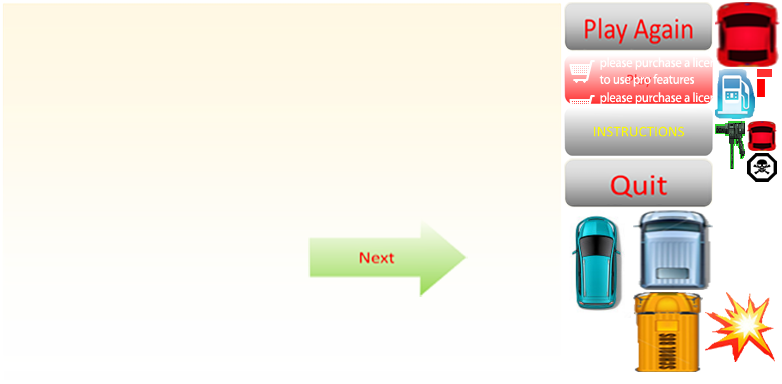
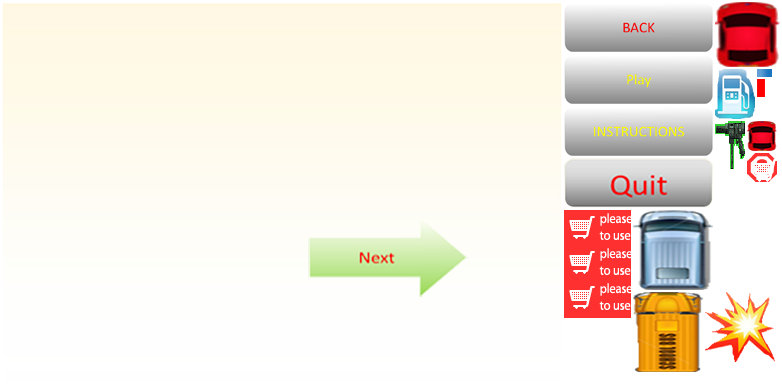
final touch

diff --git a/COMP397-Lesson4SideScroller/Scripts/states/instruction.js b/COMP397-Lesson4SideScroller/Scripts/states/instruction.js
@@ -16,9 +16,17 @@ var states;
         instruction.prototype.start = function () {
             this.INSTRUCTIONImage = new createjs.Bitmap(assets.getResult("instruction"));
             this.addChild(this.INSTRUCTIONImage);
-            this._helloLabel = new objects.Label("Speed Racer", "50px" + config.FONT_FAMILY, config.FONT_COLOR, 320, 248, true);
+            this._helloLabel = new objects.Label("move your keyboard keys ", "20px Consolas", "#000000", 320, 248, true);
             this.addChild(this._helloLabel); // add label to the stage
-            this._helloLabel = new objects.Label("Speed Racer2", "50px" + config.FONT_FAMILY, config.FONT_COLOR, 320, 148, true);
+            this._helloLabel = new objects.Label("to move car right, left, up and down", "20px Consolas", "#000000", 320, 268, true);
+            this.addChild(this._helloLabel); // add label to the stage
+            this._helloLabel = new objects.Label(" Press RIGHT key to move right", "30px Consolas", "#000000", 320, 148, true);
+            this.addChild(this._helloLabel); // add label to the stage
+            this._helloLabel = new objects.Label(" Press LEFT key to move left", "30px Consolas", "#000000", 320, 118, true);
+            this.addChild(this._helloLabel); // add label to the stage
+            this._helloLabel = new objects.Label(" Press UP key to move up", "30px Consolas", "#000000", 320, 88, true);
+            this.addChild(this._helloLabel); // add label to the stage
+            this._helloLabel = new objects.Label(" Press DOWN key to move down", "30px Consolas", "#000000", 320, 68, true);
             this.addChild(this._helloLabel); // add label to the stage
             // start button*/
             this._BACKButton = new objects.Button("BackButton", 420, 440);

diff --git a/COMP397-Lesson4SideScroller/Scripts/states/instruction.ts b/COMP397-Lesson4SideScroller/Scripts/states/instruction.ts
@@ -19,11 +19,18 @@
             this.addChild(this.INSTRUCTIONImage);
 
             
-            this._helloLabel = new objects.Label("Speed Racer", "50px" + config.FONT_FAMILY, config.FONT_COLOR, 320, 248, true);
+            this._helloLabel = new objects.Label("move your keyboard keys ", "20px Consolas", "#000000", 320, 248, true);
             this.addChild(this._helloLabel); // add label to the stage
-            this._helloLabel = new objects.Label("Speed Racer2", "50px" + config.FONT_FAMILY, config.FONT_COLOR, 320, 148, true);
+            this._helloLabel = new objects.Label("to move car right, left, up and down", "20px Consolas", "#000000", 320, 268, true);
             this.addChild(this._helloLabel); // add label to the stage
-            
+            this._helloLabel = new objects.Label(" Press RIGHT key to move right", "30px Consolas", "#000000", 320, 148, true);
+            this.addChild(this._helloLabel); // add label to the stage
+            this._helloLabel = new objects.Label(" Press LEFT key to move left", "30px Consolas", "#000000", 320, 118, true);
+            this.addChild(this._helloLabel); // add label to the stage
+            this._helloLabel = new objects.Label(" Press UP key to move up", "30px Consolas", "#000000", 320, 88, true);
+            this.addChild(this._helloLabel); // add label to the stage
+            this._helloLabel = new objects.Label(" Press DOWN key to move down", "30px Consolas", "#000000", 320, 68, true);
+            this.addChild(this._helloLabel); // add label to the stage
             // start button*/
             this._BACKButton = new objects.Button("BackButton", 420, 440);
             //     this._startButton = new createjs.Bitmap("START");

diff --git a/COMP397-Lesson4SideScroller/Scripts/states/over.js b/COMP397-Lesson4SideScroller/Scripts/states/over.js
@@ -18,14 +18,14 @@ var states;
             this.addChild(this.endingScreen);
             // level label
             if (state === 3 && winning) {
-                this._levelLabel = new objects.Label("You Won", "60px" + config.FONT_FAMILY, config.FONT_COLOR, 320, 240, true);
+                this._levelLabel = new objects.Label("You Won", "50px Consolas", "#000000", 320, 140, true);
                 this.addChild(this._levelLabel);
             }
             else {
-                this._levelLabel = new objects.Label("Game Over", "60px" + config.FONT_FAMILY, config.FONT_COLOR, 320, 240, true);
+                this._levelLabel = new objects.Label("Game Over", "50px Consolas", "#000000", 320, 140, true);
                 this.addChild(this._levelLabel); // add label to the stage
             }
-            this._levelLabel = new objects.Label("Your Total Score :" + scoreboard.getScore(), "60px" + config.FONT_FAMILY, config.FONT_COLOR, 320, 340, true);
+            this._levelLabel = new objects.Label("Your Total Score :" + scoreboard.getScore(), "50px Consolas", "#000000", 320, 240, true);
             this.addChild(this._levelLabel); // add label to the stage
             this.addChild(this._levelLabel);
             this._backButton = new objects.Button("BackButton", 320, 340);

diff --git a/COMP397-Lesson4SideScroller/Scripts/states/over.ts b/COMP397-Lesson4SideScroller/Scripts/states/over.ts
@@ -19,14 +19,14 @@
 
             // level label
             if (state === 3 && winning) {
-                this._levelLabel = new objects.Label("You Won", "60px" + config.FONT_FAMILY, config.FONT_COLOR, 320, 240, true);
+                this._levelLabel = new objects.Label("You Won", "50px Consolas", "#000000", 320, 140, true);
                 this.addChild(this._levelLabel);
             }
             else {
-                this._levelLabel = new objects.Label("Game Over", "60px" + config.FONT_FAMILY, config.FONT_COLOR, 320, 240, true);
+                this._levelLabel = new objects.Label("Game Over", "50px Consolas", "#000000", 320, 140, true);
                 this.addChild(this._levelLabel); // add label to the stage
             }
-            this._levelLabel = new objects.Label("Your Total Score :"+scoreboard.getScore(), "60px" + config.FONT_FAMILY, config.FONT_COLOR, 320, 340, true);
+            this._levelLabel = new objects.Label("Your Total Score :" + scoreboard.getScore(), "50px Consolas", "#000000", 320, 240, true);
             this.addChild(this._levelLabel); // add label to the stage
             this.addChild(this._levelLabel);
             this._backButton = new objects.Button("BackButton", 320, 340);

diff --git a/COMP397-Lesson4SideScroller/Scripts/states/menu.js b/COMP397-Lesson4SideScroller/Scripts/states/menu.js
@@ -16,7 +16,7 @@ var states;
         Menu.prototype.start = function () {
             this.welcomeImage = new createjs.Bitmap(assets.getResult("welcome"));
             this.addChild(this.welcomeImage);
-            this._helloLabel = new objects.Label("Road Crack", "90px" + config.FONT_FAMILY, config.FONT_COLOR, 320, 248, false);
+            this._helloLabel = new objects.Label("Road Cracker", "50px Consolas", "#ffff00", 220, 148, false);
             this.addChild(this._helloLabel); // add label to the stage
             this._instructionButton = new objects.Button("instructionButton", 320, 290);
             this._instructionButton.on("click", this._instructionClick, this); // event listener

diff --git a/COMP397-Lesson4SideScroller/Scripts/states/menu.ts b/COMP397-Lesson4SideScroller/Scripts/states/menu.ts
@@ -19,8 +19,8 @@
             this.welcomeImage = new createjs.Bitmap(assets.getResult("welcome"));
             this.addChild(this.welcomeImage);
            
-            
-            this._helloLabel = new objects.Label("Road Crack", "90px" + config.FONT_FAMILY, config.FONT_COLOR, 320, 248,false);
+      
+            this._helloLabel = new objects.Label("Road Cracker", "50px Consolas", "#ffff00", 220, 148,false);
             this.addChild(this._helloLabel); // add label to the stage
 
             this._instructionButton = new objects.Button("instructionButton", 320, 290)

diff --git a/COMP397-Lesson4SideScroller/Scripts/states/game2.js b/COMP397-Lesson4SideScroller/Scripts/states/game2.js
@@ -19,7 +19,7 @@ var states;
             TruckCollided1 = false;
             state = 2;
             game.removeAllChildren();
-            scoreboard.setLives(150);
+            scoreboard.setLives(15);
             // scoreboard.setScore(100);
             this._fireNumber = 0;
             this._nextButton = new objects.Button("NextButton", 100, 100);

diff --git a/COMP397-Lesson4SideScroller/Scripts/states/game2.ts b/COMP397-Lesson4SideScroller/Scripts/states/game2.ts
@@ -31,7 +31,7 @@
             TruckCollided1 = false;
             state = 2;
             game.removeAllChildren();
-            scoreboard.setLives(150);
+            scoreboard.setLives(15);
            // scoreboard.setScore(100);
             this._fireNumber = 0;
             this._nextButton = new objects.Button("NextButton", 100, 100);

diff --git a/COMP397-Lesson4SideScroller/Scripts/core/game.ts b/COMP397-Lesson4SideScroller/Scripts/core/game.ts
@@ -72,6 +72,9 @@ var data = {
         "truck2": [14],
         "collision": [15]
     }
+
+
+
 };
 
 // manifest of all our assets
